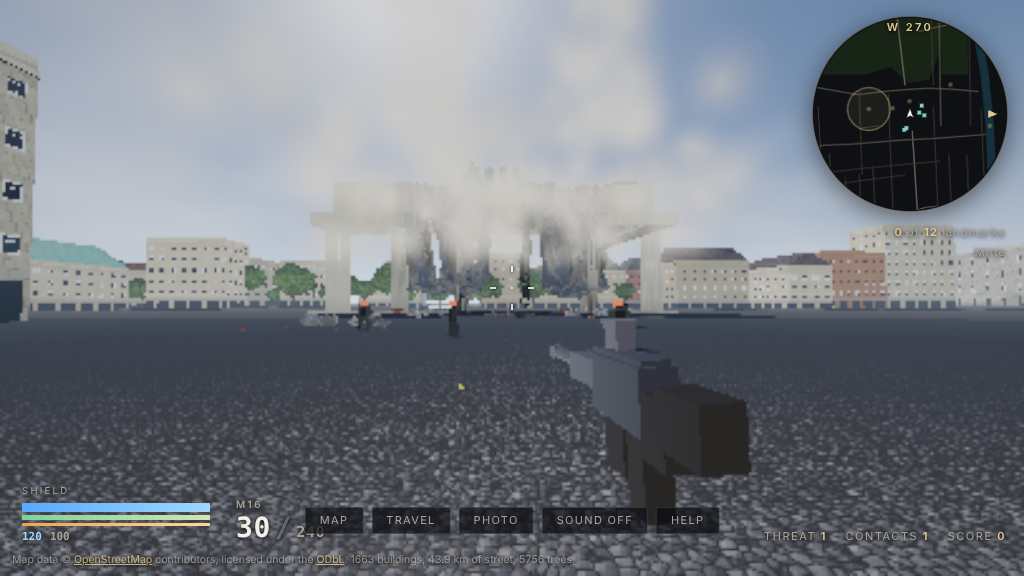
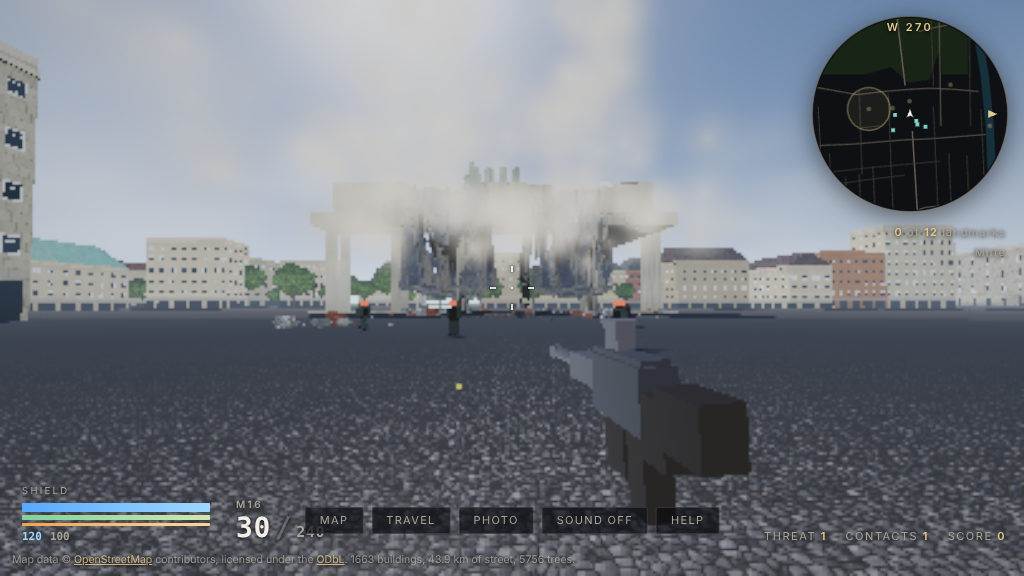
Pads sit on the ground under them each step, and fit-pages gives Overpass only the time it has left

diff --git a/src/game/pickups.js b/src/game/pickups.js
@@ -7,6 +7,9 @@
 // could actually stand. That keeps them out of walls and off the river without
 // anyone having to author a list of coordinates.
 
+/** How far above the ground a pad hangs, in metres. */
+const HOVER = 0.9;
+
 export const KIND = {
   AMMO: 'ammo',
   HEALTH: 'health',
@@ -87,7 +90,7 @@ export class Pickups {
         }
         if (tooClose) continue;
         this.pads.push({
-          kind, x, y: g + 0.9, z,
+          kind, x, y: g + HOVER, z,
           ready: true, timer: 0, bob: Math.random() * 6.28, spin: Math.random() * 6.28,
         });
         placed++;
@@ -115,6 +118,10 @@ export class Pickups {
   update(dt, player) {
     let taken = null;
     for (const p of this.pads) {
+      // The ground under a pad does not stay put: a blast digs it out and a
+      // district arriving next door replaces it. A pad that kept the height
+      // it was put down at hung in the air over the crater.
+      p.y = this.world.groundHeight(p.x, p.z) + HOVER;
       p.bob += dt * 1.8;
       p.spin += dt * 1.1;
       if (!p.ready) {

diff --git a/docs/PLAN.md b/docs/PLAN.md
@@ -3254,3 +3254,23 @@ So there are two cities now, and a profile picks which:
   street in Ring 1-2 at both tiers is in tier-01-standard.png and
   tier-02-full.png: tier 0 brings the cornices, the lamps, the parked cars,
   the kerbs and three times the trees.
+- 2026-10-20: the checks for 71d went red on one line, and it was not 71d:
+  "and all of them stand on the ground" in the arsenal, with no detail. The
+  pads took their height once, when they were put down, and the checks before
+  that one dig craters and stream districts in. A pad over a hole that came
+  later hung in the air above it, which is a real if small fault and why the
+  line had passed on the same data an hour before: which pad a blast lands
+  near is not fixed. A pad now sits on whatever ground is under it each step,
+  and the check says how far off the worst one is.
+- 2026-10-20: the first deploy with it, on the live city (Pages run 141).
+  The site was already 932.39 MB before anything moved, 813 MB of districts
+  and 120.71 MB of overflight bundles, which left 18 MB under the 950 MB
+  line. Mitte took its tier 2 overflight (+2.74 MB) and Hansaviertel (c2r1)
+  went up to tier 0 (+6.82 MB), to 941.95 MB. Kreuzberg (c3r2) would have
+  been 964.51 and Gesundbrunnen (c3r0) 974.04, so both were built back, and
+  Tiergarten (c2r2) could not get the full tags out of Overpass. The step
+  took 10 min 50 s on an eight minute clock, because one Overpass query can
+  hang for ten: fetch-osm takes `--deadline=` now and fit-pages gives it
+  what is left, two minutes at most. The honest reading: on Pages the gain is
+  two districts, because the standard city already fills the site. Room for
+  more would have to come out of the overflight bundles or the outer tiers.
